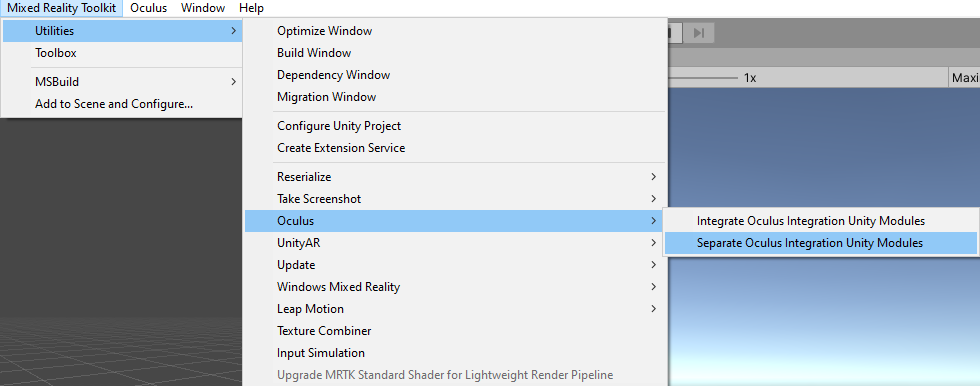
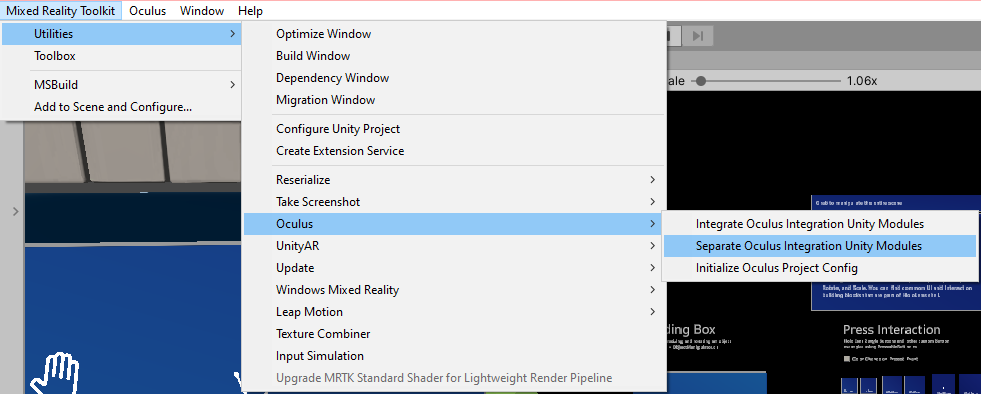
Add tool to auto-configure OculusProjectConfig (#8847)
* updated documentation and code to automatically configure the OculusProjectConfig for hand + keyboard support on quest

diff --git a/Assets/MRTK/Providers/Oculus/XRSDK/MRTK-Quest/Editor/OculusXRSDKHandtrackingConfigurationChecker.cs b/Assets/MRTK/Providers/Oculus/XRSDK/MRTK-Quest/Editor/OculusXRSDKHandtrackingConfigurationChecker.cs
@@ -112,6 +112,35 @@ namespace Microsoft.MixedReality.Toolkit.XRSDK.Oculus.Editor
         }
 
         /// <summary>
+        /// Initialize the Oculus Project Config with the appropriate settings to enable handtracking and keyboard support.
+        /// </summary>
+        [MenuItem("Mixed Reality Toolkit/Utilities/Oculus/Initialize Oculus Project Config")]
+        internal static void InitializeOculusProjectConfig()
+        {
+#if OCULUSINTEGRATION_PRESENT
+            // Updating the oculus project config to allow for handtracking and system keyboard usage
+            OVRProjectConfig defaultOculusProjectConfig = OVRProjectConfig.GetProjectConfig();
+            if (defaultOculusProjectConfig != null)
+            {
+                defaultOculusProjectConfig.handTrackingSupport = OVRProjectConfig.HandTrackingSupport.ControllersAndHands;
+                defaultOculusProjectConfig.requiresSystemKeyboard = true;
+
+                Debug.Log("Updated default project settings");
+            }
+#endif
+        }
+
+        [MenuItem("Mixed Reality Toolkit/Utilities/Oculus/Initialize Oculus Project Config", true)]
+        private static bool CheckScriptingDefinePresent()
+        {
+#if OCULUSINTEGRATION_PRESENT
+            return true;
+#else
+            return false;
+#endif
+        }
+
+        /// <summary>
         /// Detects if the Oculus Integration package is present and updates the project definitions and prefab references.
         /// </summary>
         internal static void ConfigureOculusIntegration(bool oculusIntegrationPresent)

diff --git a/Documentation/CrossPlatform/OculusQuestMRTK.md b/Documentation/CrossPlatform/OculusQuestMRTK.md
@@ -38,10 +38,11 @@ It will also update the csc file to filter out the obsolete warnings produced by
 
     ![OculusIntegrationAsmdef](../Images/CrossPlatform/OculusQuest/OculusIntegrationAsmdef.png)
 
-1. In the imported Oculus folder (It should be found at Assets/Oculus), there is a scriptable object called OculusProjectConfig. In that config file, you need to set HandTrackingSupport 
-to "Controllers and Hands".
+1. After the modules have been integrated, navigate to Mixed Reality Toolkit > Utilities > Oculus > Initialize Oculus Project Config and run it. This will modify a scriptable object called OculusProjectConfig (It should be found at Assets/Oculus).
+In that config file, you should see the HandTrackingSupport field set to "Controllers and Hands" and the Requires System Keyboard field checked off. This will enable handtracking and keyboard input on the Quest.
 
-    ![OculusIntegrationControllerAndHands](../Images/CrossPlatform/OculusQuest/OculusIntegrationControllerAndHands.png)
+    ![OculusIntegrationControllerAndHands](../Images/CrossPlatform/OculusQuest/OculusIntegrationConfig.png)
+    ![OculusIntegrationControllerAndHands](../Images/CrossPlatform/OculusQuest/OculusIntegrationConfigSettings.png)
    
 ## Setting up the scene
 1. Create a new Unity scene or open a pre-existing scene like HandInteractionExamples
